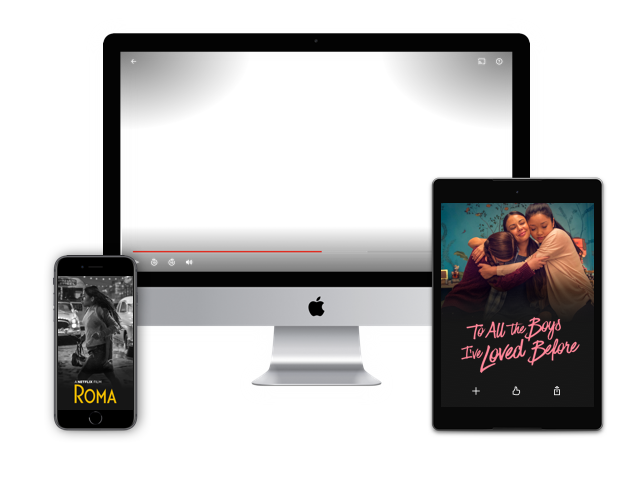
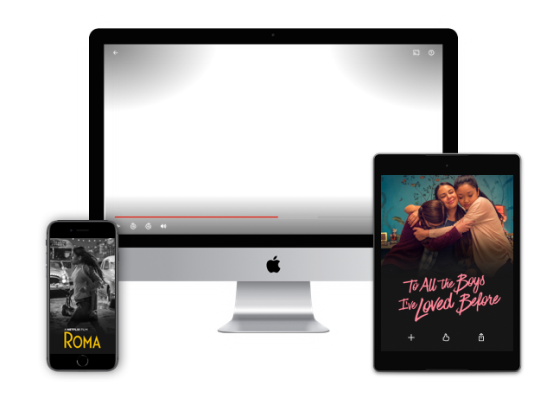
grid refatorado

Changed region(s): [[0.1844, 0.058, 0.83, 0.087], [0.123, 0.8116, 0.1537, 0.8406]]

diff --git a/css/style.scss b/css/style.scss
@@ -204,54 +204,47 @@ body {
   padding: 20px 0 50px 0;
   background-color: #000;
 
-  .containerGrid {
+  .containerFlex {
     max-width: 1130px;
     margin: 0 auto;
     display: flex;
     align-items: center;
-  }
+    justify-content: space-between;
 
-  .title {
-    h1 {
-      font-size: 45px;
-      margin-bottom: 20px;
+    .title {
+      h1 {
+        font-size: 46px;
+        margin-bottom: 20px;
+      }
+  
+      p {
+        font-size: 25px;
+      }
     }
 
-    p {
-      font-size: 24px;
-    }
-  }
-
-  .imgWithVideo {
-    max-width: 530px;
-    position: relative;
-    img {
+    .imgWithVideo {
       max-width: 530px;
       position: relative;
-      z-index: 10;
-    }
-
-    video {
-      max-width: 385px;
-      height: 220px;
-      position: absolute;
-      top: 81px;
-      left: 70px;
+      img {
+        max-width: 530px;
+        position: relative;
+        z-index: 10;
+      }
+  
+      video {
+        max-width: 385px;
+        height: 220px;
+        position: absolute;
+        top: 81px;
+        left: 70px;
+      }
     }
   }
 }
 
 .baiseSerie {
-  .containerGrid {
-    justify-content: space-between;
-  }
-
   .img {
     position: relative;
-    & > img {
-      display: block;
-      max-width: 510px;
-    }
 
     .subFlex {
       width: 335px;
@@ -266,7 +259,7 @@ body {
       bottom: 25px;
       left: 50%;
       transform: translateX(-50%);
-
+      
       img {
         width: 50px;
       }
@@ -288,6 +281,6 @@ body {
   }
 
   .title {
-    max-width: 510px;
+    max-width: 530px;
   }
 }

diff --git a/css/style.css b/css/style.css
@@ -179,29 +179,30 @@ body {
   padding: 20px 0 50px 0;
   background-color: #000;
 }
-.sectionContainer .containerGrid {
+.sectionContainer .containerFlex {
   max-width: 1130px;
   margin: 0 auto;
   display: flex;
   align-items: center;
+  justify-content: space-between;
 }
-.sectionContainer .title h1 {
-  font-size: 45px;
+.sectionContainer .containerFlex .title h1 {
+  font-size: 46px;
   margin-bottom: 20px;
 }
-.sectionContainer .title p {
-  font-size: 24px;
+.sectionContainer .containerFlex .title p {
+  font-size: 25px;
 }
-.sectionContainer .imgWithVideo {
+.sectionContainer .containerFlex .imgWithVideo {
   max-width: 530px;
   position: relative;
 }
-.sectionContainer .imgWithVideo img {
+.sectionContainer .containerFlex .imgWithVideo img {
   max-width: 530px;
   position: relative;
   z-index: 10;
 }
-.sectionContainer .imgWithVideo video {
+.sectionContainer .containerFlex .imgWithVideo video {
   max-width: 385px;
   height: 220px;
   position: absolute;
@@ -209,15 +210,8 @@ body {
   left: 70px;
 }
 
-.baiseSerie .containerGrid {
-  justify-content: space-between;
-}
 .baiseSerie .img {
   position: relative;
-}
-.baiseSerie .img > img {
-  display: block;
-  max-width: 510px;
 }
 .baiseSerie .img .subFlex {
   width: 335px;
@@ -247,5 +241,5 @@ body {
   margin-left: 15px;
 }
 .baiseSerie .title {
-  max-width: 510px;
+  max-width: 530px;
 }/*# sourceMappingURL=style.css.map */

diff --git a/home.html b/home.html
@@ -41,7 +41,7 @@
   </header>
 
   <section class="aproveiteNaTv sectionContainer">
-    <div class="containerGrid">
+    <div class="containerFlex">
       <span class="title">
         <h1>Aproveite na TV.</h1>
         <p>Assista em Smart TVs, PlayStation, Xbox, Chromecast, Apple TV, aparelhos de Blu-ray e outros dispositivos.</p>
@@ -56,9 +56,9 @@
   </section>
 
   <section class="baiseSerie sectionContainer">
-    <div class="containerGrid">
+    <div class="containerFlex">
       <span class="img">
-        <img src="img/mobile-0819.jpg" alt="imagem de um celular">
+        <img src="img/mobile-0819.png" alt="imagem de um celular">
         <div class="subFlex">
           <img class="capa" src="img/boxshot.png" alt="imagem da serie stranger things">
           <span class="titleDownload">
@@ -74,6 +74,14 @@
       </span>
     </div>
   </section>
+
+  <!-- <section class="baiseSerie sectionContainer">
+    <div class="containerGrid">
+
+      </span>
+
+    </div>
+  </section> -->
 </body>
 
 </html>
